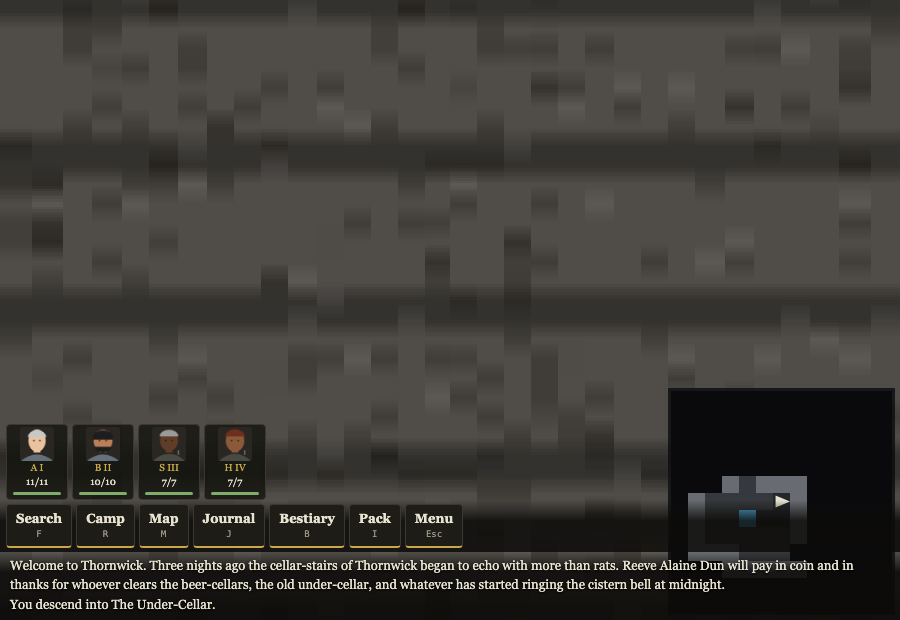
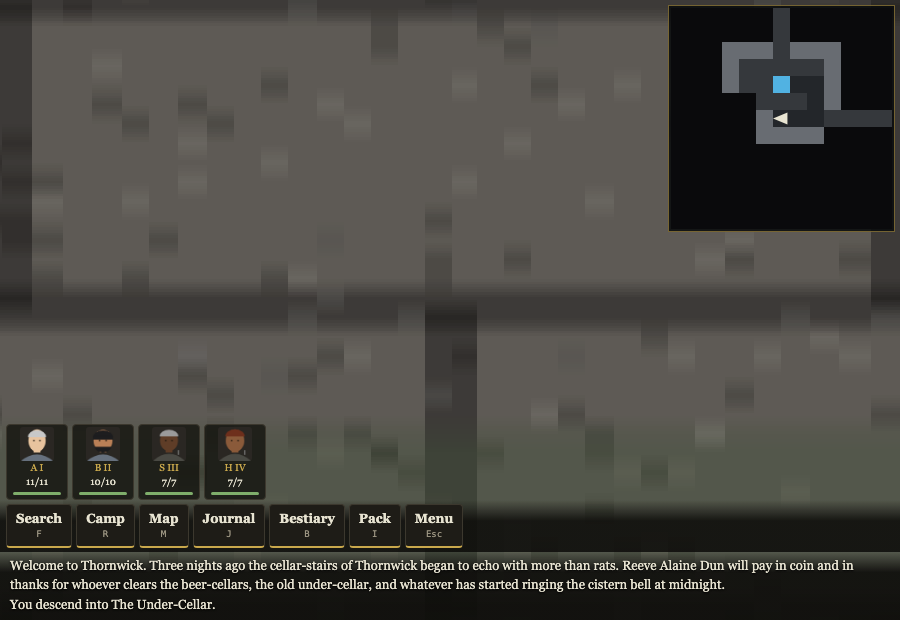
Move minimap to the upper-right corner
Draw the view minimap box at the top-right instead of bottom-right (clear
of the touch navpad), with a firmer backdrop and a thin gold frame so it
stays legible against dark corridors and empty sky.

diff --git a/js/view3d.js b/js/view3d.js
@@ -270,9 +270,12 @@
       if (!this.mmFn) return;
       const N = 13, cell = Math.max(6, Math.floor(Math.min(w, h) * 0.028));
       const mw = N * cell, mh = N * cell;
-      const ox = w - mw - 8, oy = h - mh - 8;
-      ctx.fillStyle = 'rgba(8,10,12,0.78)';
+      const ox = w - mw - 8, oy = 8; // upper-right corner
+      ctx.fillStyle = 'rgba(8,10,12,0.86)';
       ctx.fillRect(ox - 3, oy - 3, mw + 6, mh + 6);
+      ctx.strokeStyle = 'rgba(201,168,76,0.55)';
+      ctx.lineWidth = 1;
+      ctx.strokeRect(ox - 2.5, oy - 2.5, mw + 5, mh + 5);
       this.mmFn(ctx, ox, oy, cell, N, this.cam, this.mmData);
     }
   }
